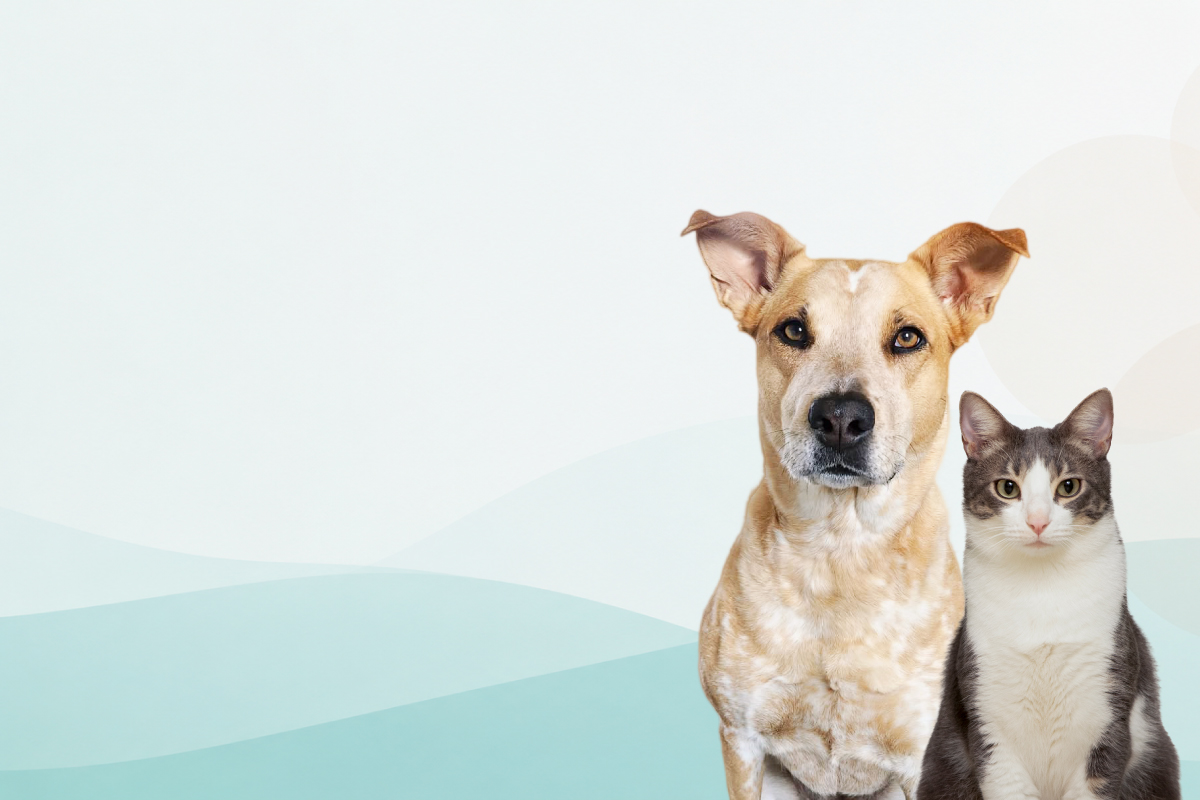
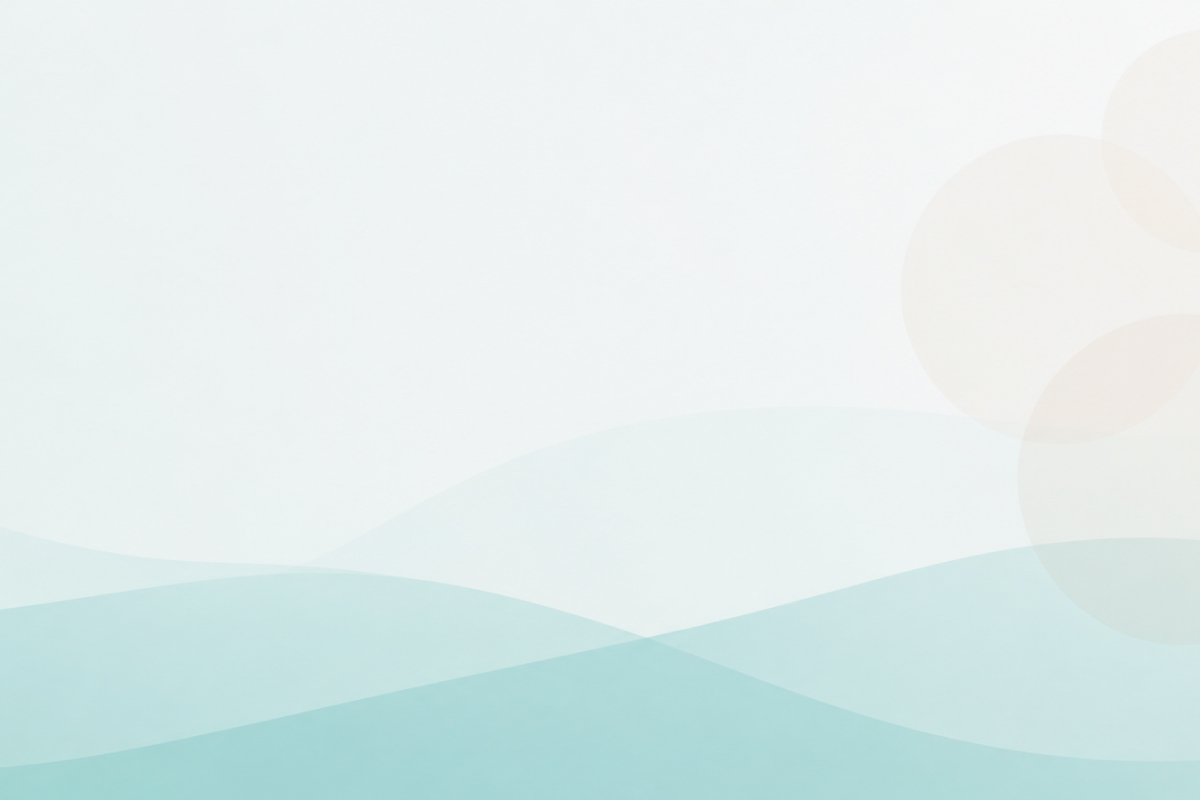
accueil banniere

Changed region(s): [[0.37, 0.25, 0.9867, 1.0], [0.0, 0.75, 0.0925, 0.7812], [0.2467, 0.875, 0.3083, 0.9062]]

diff --git a/src/index.css b/src/index.css
@@ -38,6 +38,11 @@ body {
   font-size: 14px;
   line-height: 1.5;
   -webkit-font-smoothing: antialiased;
+  user-select: none;
+}
+
+input, textarea, [contenteditable="true"] {
+  user-select: text;
 }
 
 h1 { font-size: 22px; font-weight: 700; color: var(--primary); }
@@ -190,7 +195,7 @@ input  { font-family: var(--font); }
   background-position: center right;
   background-repeat: no-repeat;
   margin: -1.5rem -16px 0;
-  padding: 20px 16px 30px;
+  padding: 30px 16px 30px;
 }
 
 .accueil-v2-header-top {